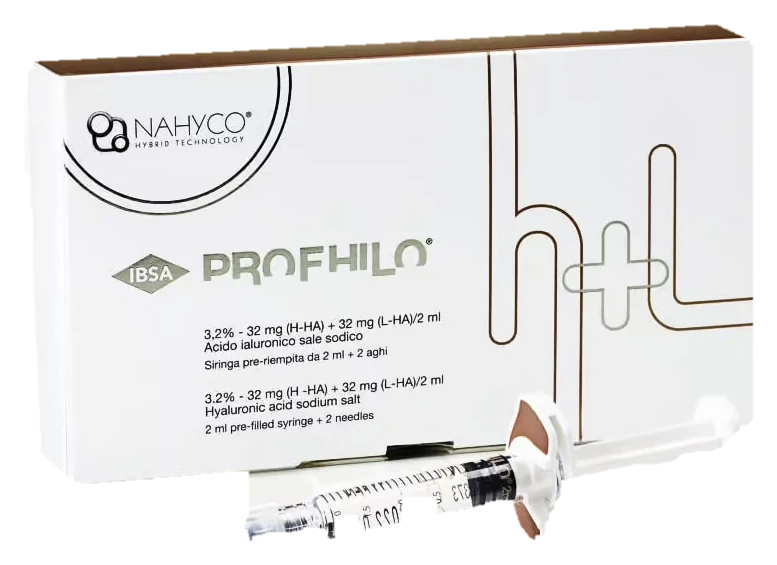
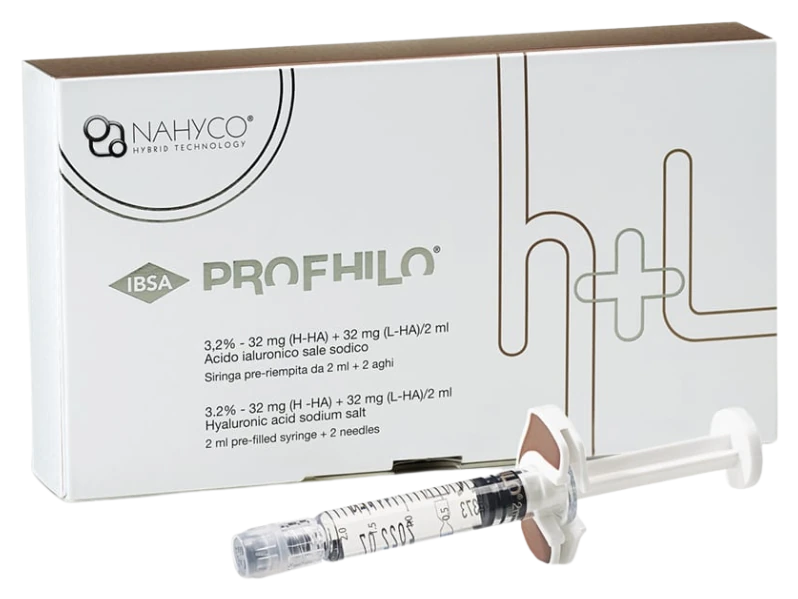
Replace Profhilo and Profhilo Structura photos with cleaner supplier shots
The previous crops (especially Profhilo) had an off-center product and a
soft grey halo from an ambient shadow the earlier photo's background
included. The new supplied photos already have clean transparent
backgrounds, so no cutout processing was needed -- just cropped to the
product bounds. Profhilo Structura's new photo also shows the syringe
alongside the box, which the old one didn't.

diff --git a/profhilo-penang.html b/profhilo-penang.html
@@ -269,7 +269,7 @@ gtag('config', 'G-ZZTS438D2E');
       <a href="index.html#services" class="btn-line"><span class="bar"></span>All Treatments</a>
     </div>
   </div>
-  <img class="tp-hero-media tp-hero-media-wide" src="assets/treatments/profhilo-box.webp" alt="Profhilo hyaluronic acid injectable box and syringe by IBSA at CANVAS Medical Clinic, Penang" width="777" height="565" loading="lazy">
+  <img class="tp-hero-media tp-hero-media-wide" src="assets/treatments/profhilo-box.webp" alt="Profhilo hyaluronic acid injectable box and syringe by IBSA at CANVAS Medical Clinic, Penang" width="798" height="599" loading="lazy">
   <img class="tp-hero-watermark" src="assets/canvas-mark.png" alt="" aria-hidden="true" width="120" height="134" loading="lazy">
 </header>
 
@@ -336,7 +336,7 @@ gtag('config', 'G-ZZTS438D2E');
           <p>Your physician will assess which product — or combination — is right for your face.</p>
         </div>
         <div class="tp-who-img">
-          <a href="profhilo-structura-penang.html"><img src="assets/treatments/profhilo-structura-box.webp" alt="Profhilo Structura hyaluronic acid injectable box by IBSA at CANVAS Medical Clinic, Penang" width="1200" height="738" loading="lazy"></a>
+          <a href="profhilo-structura-penang.html"><img src="assets/treatments/profhilo-structura-box.webp" alt="Profhilo Structura hyaluronic acid injectable box and syringe by IBSA at CANVAS Medical Clinic, Penang" width="1200" height="826" loading="lazy"></a>
         </div>
       </div>
     </div>

diff --git a/profhilo-structura-penang.html b/profhilo-structura-penang.html
@@ -270,7 +270,7 @@ gtag('config', 'G-ZZTS438D2E');
       <a href="index.html#services" class="btn-line"><span class="bar"></span>All Treatments</a>
     </div>
   </div>
-  <img class="tp-hero-media tp-hero-media-wide" src="assets/treatments/profhilo-structura-box.webp" alt="Profhilo Structura hyaluronic acid injectable box by IBSA at CANVAS Medical Clinic, Penang" width="1200" height="738" loading="lazy">
+  <img class="tp-hero-media tp-hero-media-wide" src="assets/treatments/profhilo-structura-box.webp" alt="Profhilo Structura hyaluronic acid injectable box and syringe by IBSA at CANVAS Medical Clinic, Penang" width="1200" height="826" loading="lazy">
   <img class="tp-hero-watermark" src="assets/canvas-mark.png" alt="" aria-hidden="true" width="120" height="134" loading="lazy">
 </header>
 
